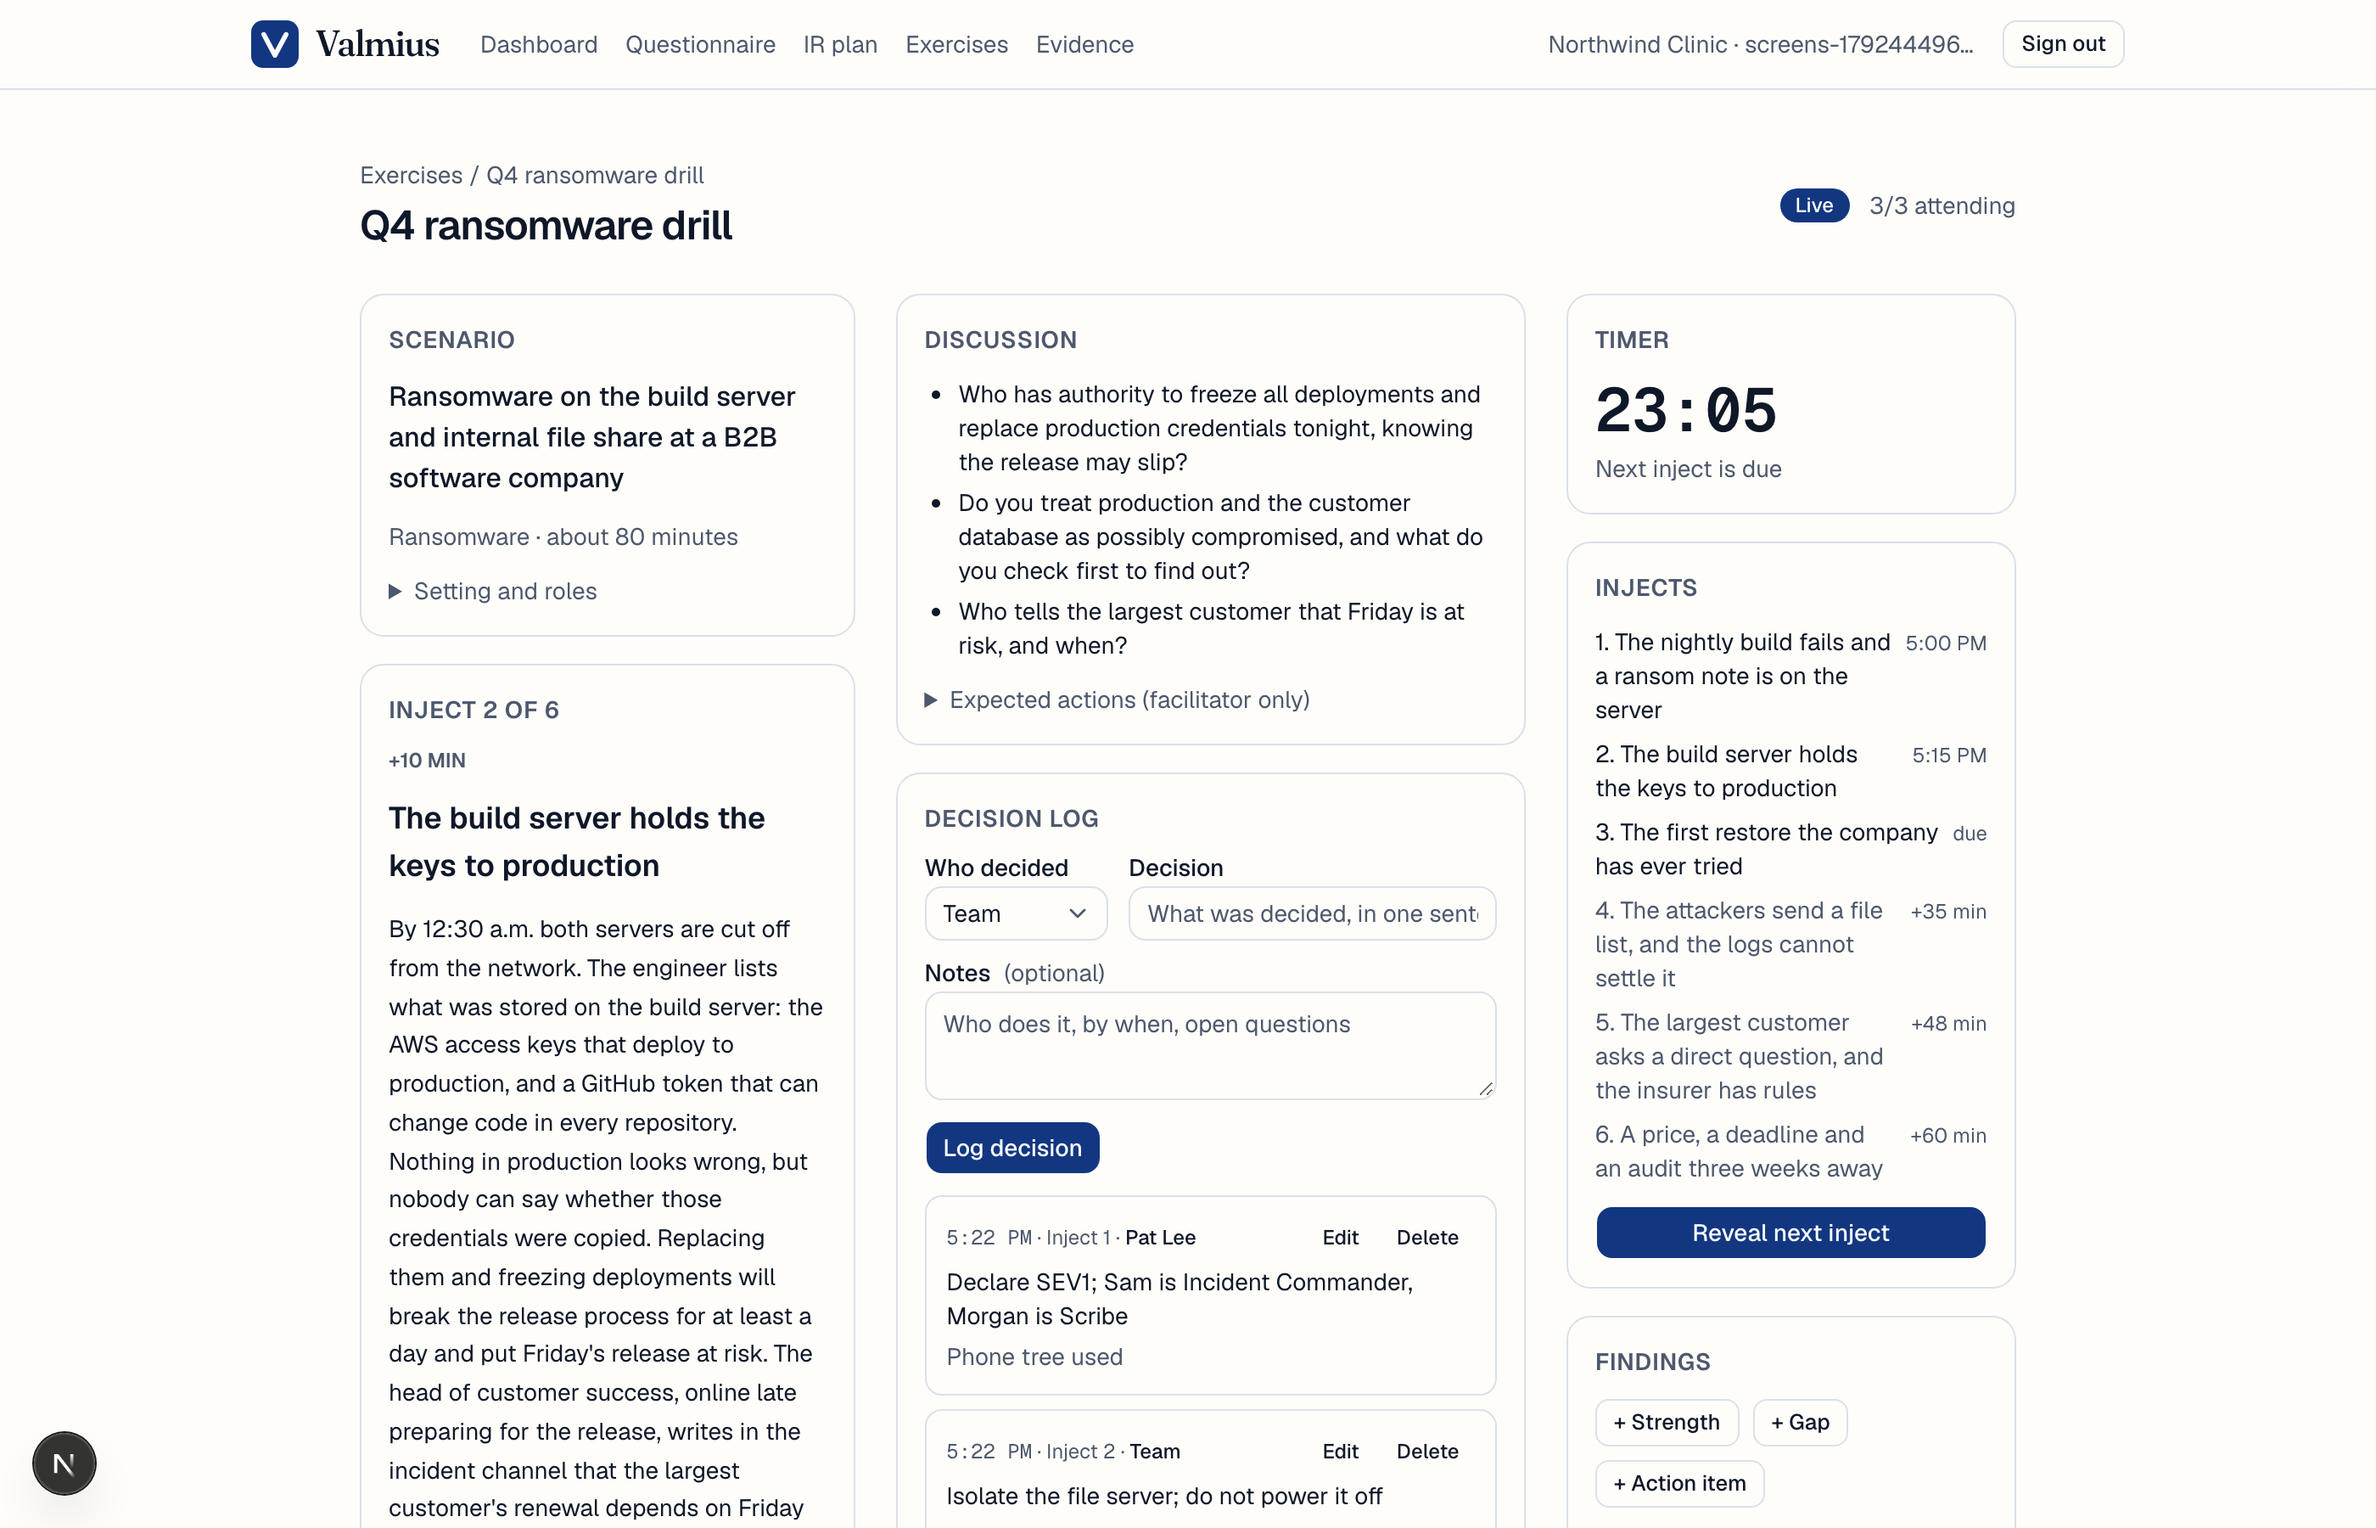
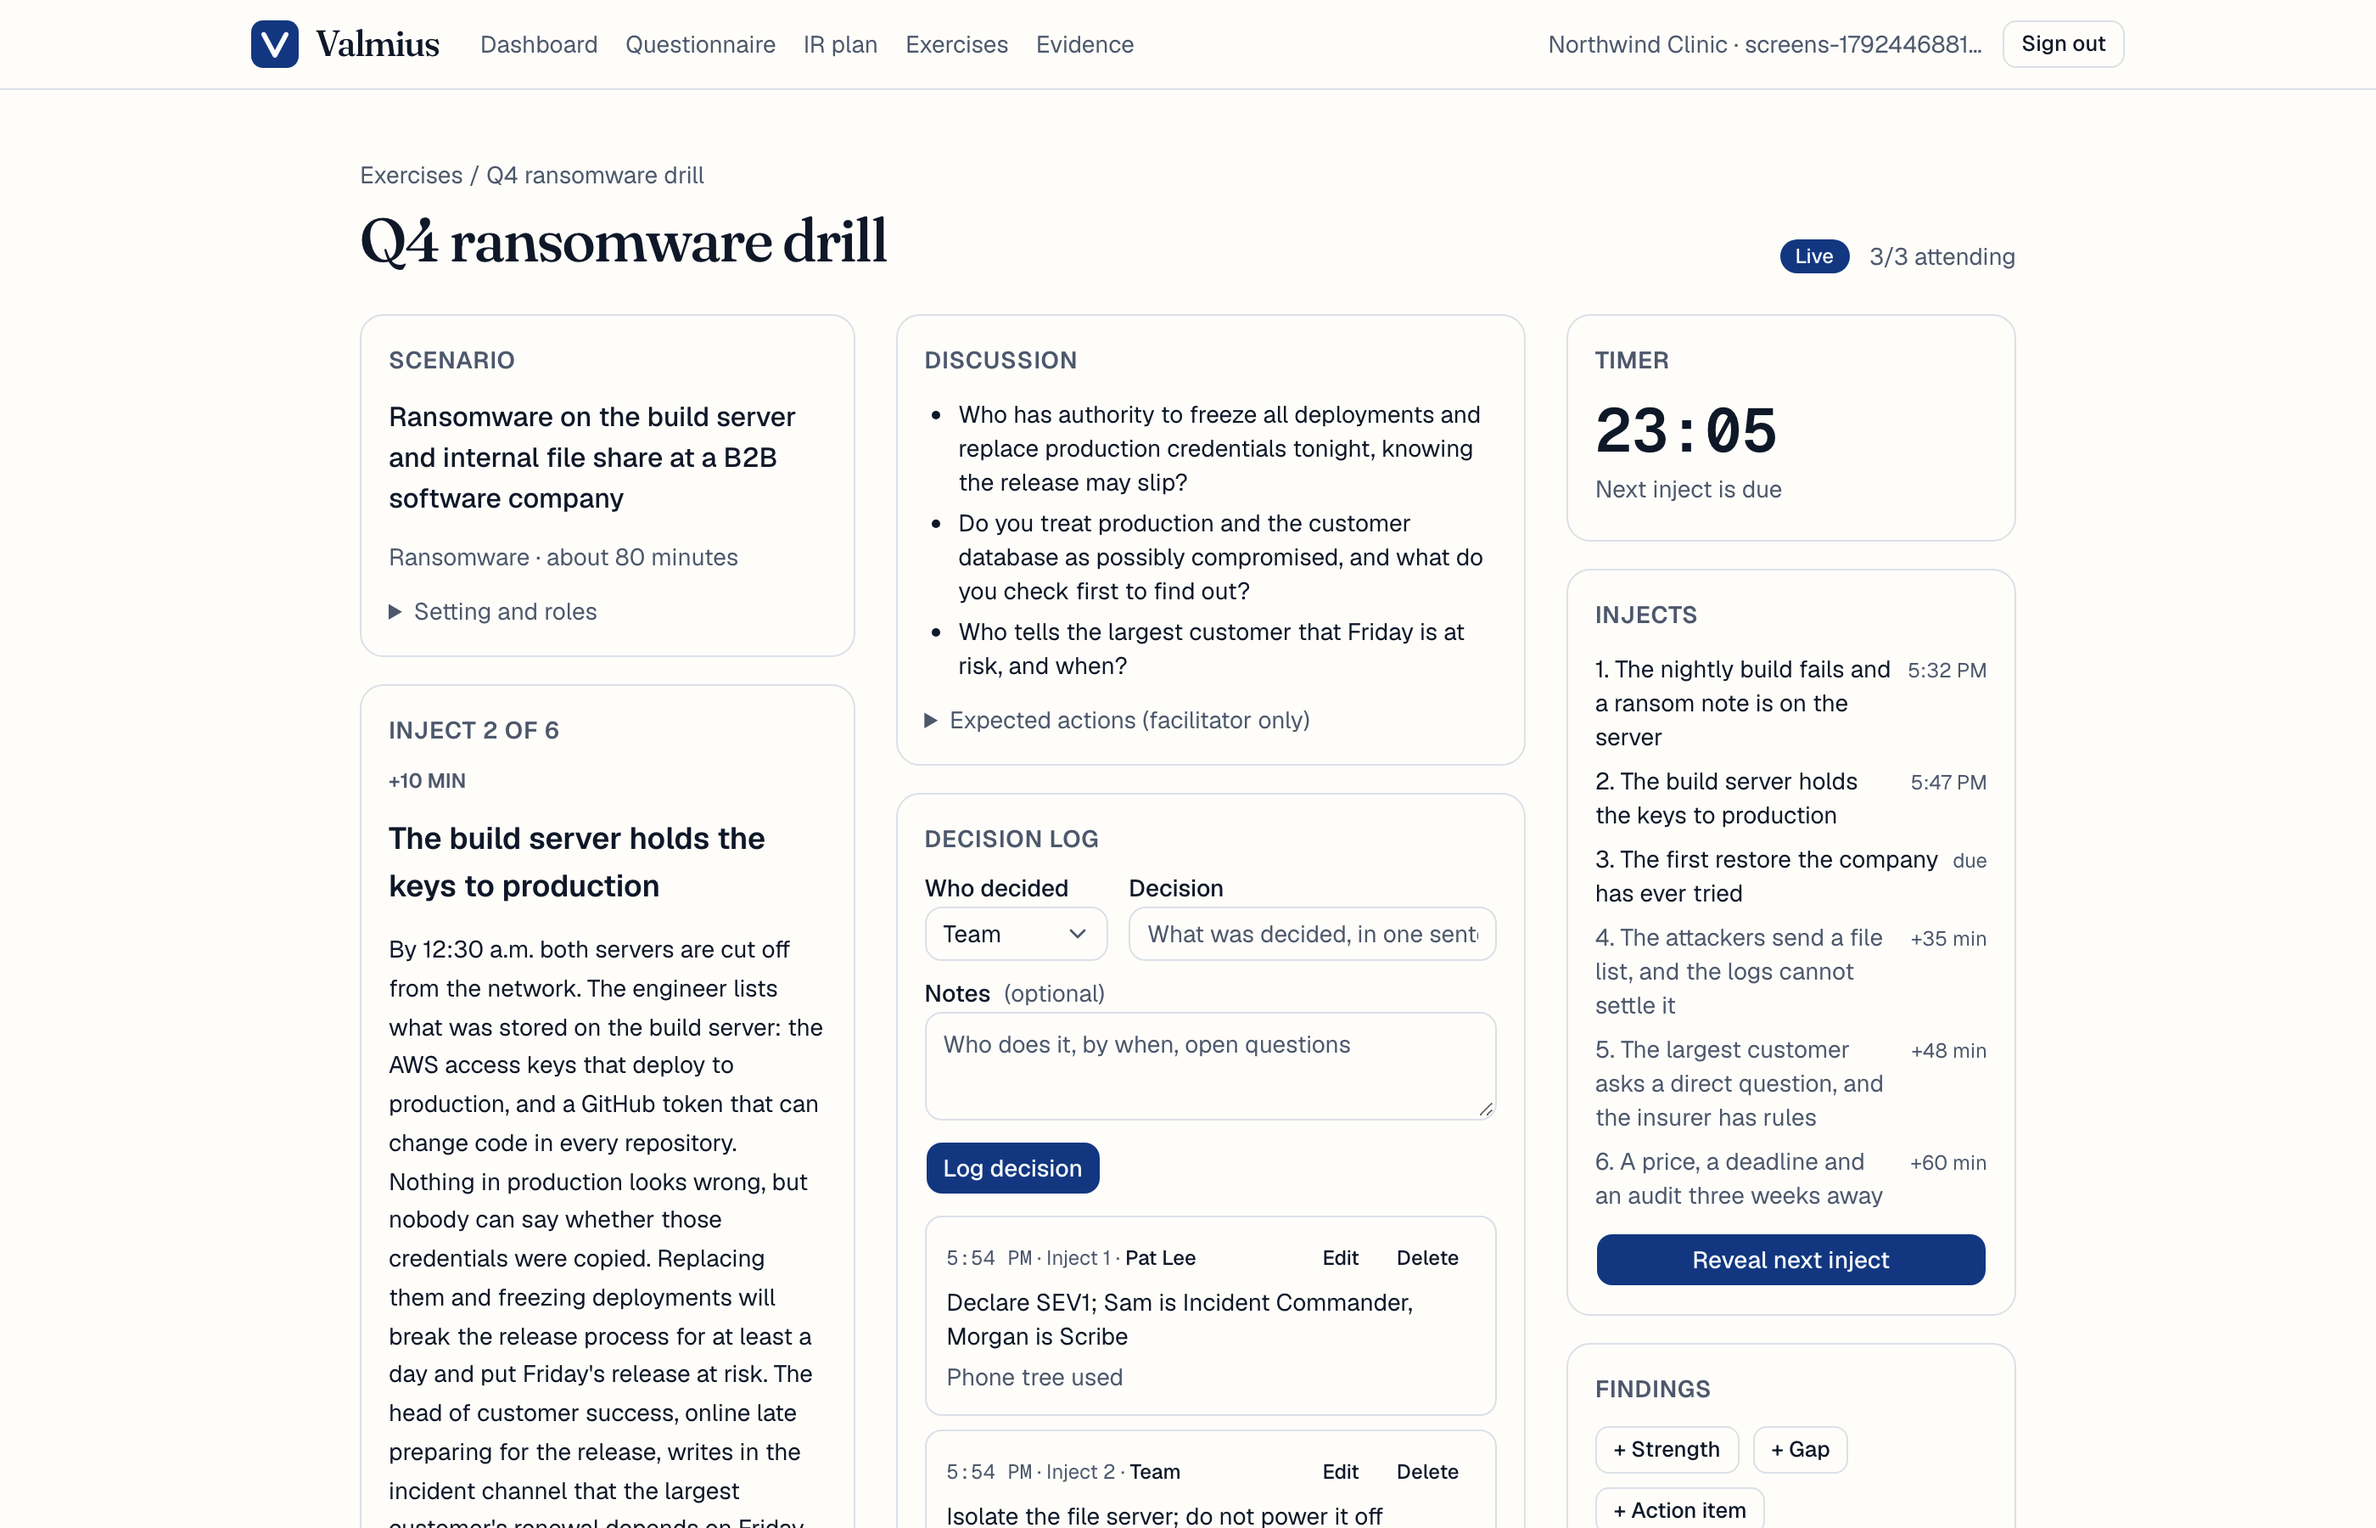
perf(landing): phone-sized screenshot files, refreshed screens from the production build
next/image gets a sizes attribute on every product screenshot, so a phone fetches a phone-wide
file instead of the 2x desktop one (mobile Lighthouse LCP 5.8 s to 3.2 s, performance 79 to
93). The screenshot script waits for the dashboard content and the console's panel bar; the
screens show the new page headers.

diff --git a/scripts/screenshots.ts b/scripts/screenshots.ts
@@ -118,6 +118,7 @@ async function main() {
       `${baseUrl}/auth/confirm?token_hash=${link2.properties.hashed_token}&type=magiclink&next=/app`,
     );
     await p.waitForURL(/\/app$/);
+    await p.getByTestId("questionnaire-card").waitFor();
     await p.screenshot({ path: "tmp/phone-dashboard.png", fullPage: false });
     await p.goto(`${baseUrl}/app/questionnaire?step=2`);
     await p.getByTestId("questionnaire-step").waitFor();
@@ -126,7 +127,9 @@ async function main() {
     await p.getByTestId("plan-section").first().waitFor();
     await p.screenshot({ path: "tmp/phone-plan.png" });
     await p.goto(`${baseUrl}/app/exercises/${s.exerciseId}/run`);
-    await p.getByTestId("timer").waitFor();
+    // On a phone the console opens on the Scenario panel; the timer sits under Controls.
+    await p.getByTestId("console-tabs").waitFor();
+    await p.getByTestId("current-inject").waitFor();
     await p.screenshot({ path: "tmp/phone-console.png" });
     await p.goto(`${baseUrl}/x/${s.participantToken}`);
     await p.getByTestId("participant-identity").waitFor();

diff --git a/src/components/landing/screenshot-frame.tsx b/src/components/landing/screenshot-frame.tsx
@@ -10,6 +10,7 @@ export function ScreenshotFrame({
   caption,
   className,
   priority = false,
+  sizes = "(min-width: 1024px) 50vw, 100vw",
 }: {
   src: string;
   alt: string;
@@ -18,6 +19,8 @@ export function ScreenshotFrame({
   caption?: string;
   className?: string;
   priority?: boolean;
+  /** Rendered width per viewport, so phones fetch a phone-sized file, not the 2x desktop one. */
+  sizes?: string;
 }) {
   return (
     <figure className={cn("space-y-3", className)}>
@@ -36,6 +39,7 @@ export function ScreenshotFrame({
           width={width}
           height={height}
           priority={priority}
+          sizes={sizes}
           className="block h-auto w-full"
         />
       </div>
